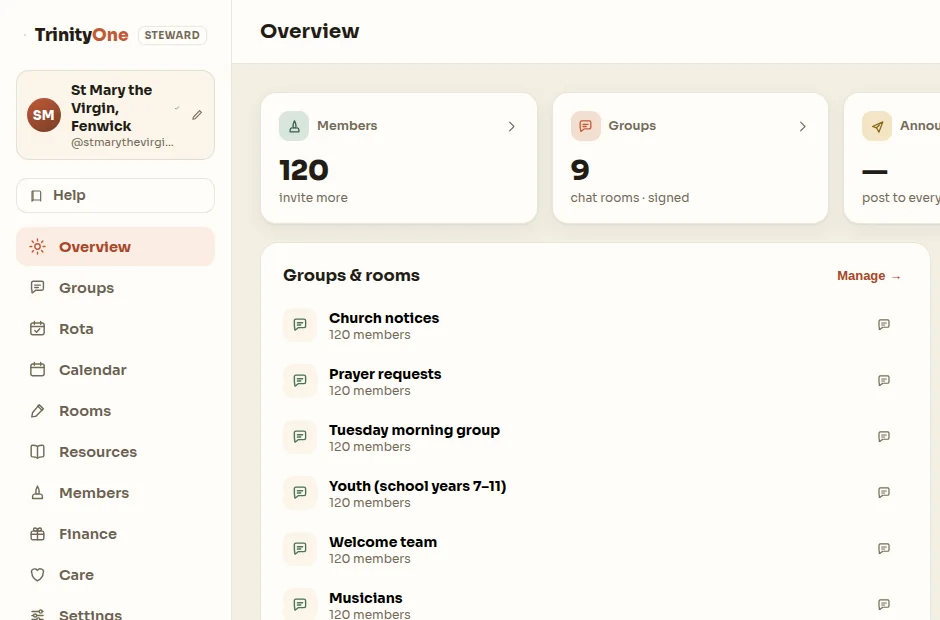
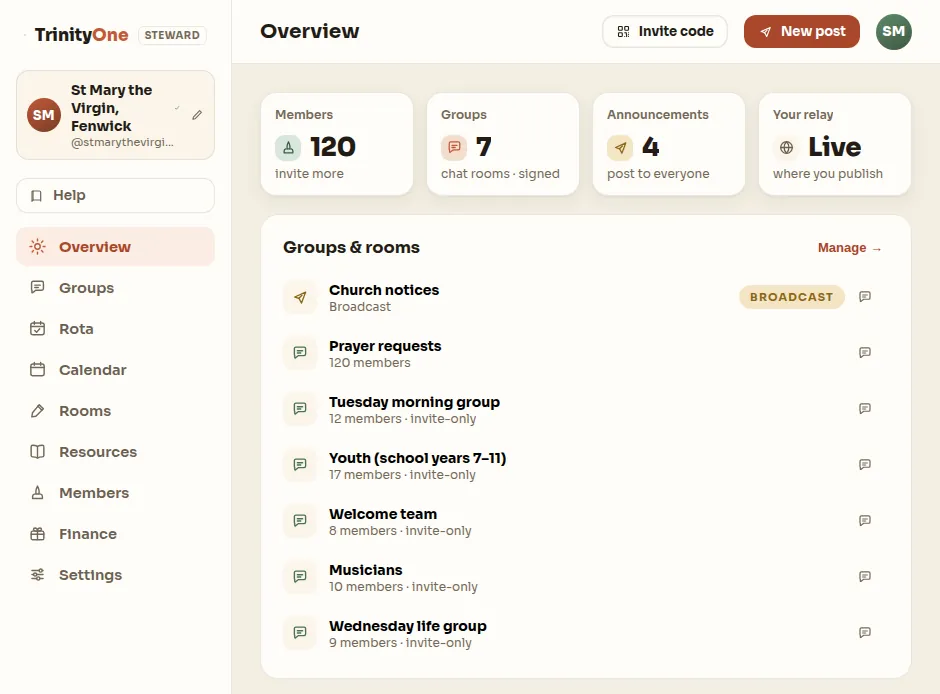
site: the console shot shows a real church's rooms, small groups with their own people, and the whole window
Owner, 2026-10-01: "the image on the website showing the stewards console has every group with 120
members, we might want to fix that to look more organic. And possibly extend the crop, as a bit is
cropped off."

WHY EVERY ROOM SAID 120. scripts/seed-church.mjs published every room open, and the console's Overview
shows an open room as the size of the whole church (groupLiveSub in app/stew-dashboard.jsx: every member
may join it). Notices was kind:'channel', a kind nothing in the product reads, so it was an open chat too
and the Announcements card read "—".

WHAT THE CONSOLE NOW SHOWS, read off its own Overview in this capture:
  Church notices          Broadcast           (kind:'broadcast', the kind the console writes)
  Prayer requests         120 members         (open: everyone may join, which is true)
  Tuesday morning group   12 members · invite-only
  Youth (school years 7–11)  17 members · invite-only
  Welcome team            8 members · invite-only
  Musicians               10 members · invite-only
  Wednesday life group    9 members · invite-only   (new room; the diary already had this group meeting)
  Cards: Members 120 · Groups 7 · Announcements 4 (was "—") · Your relay Live.
The console's own Groups page shows the same rooms as "Invite · 12", "Invite · 17", "Invite · 8",
"Invite · 10", "Invite · 9", and notices as Broadcast.

EVERY NUMBER IS ONE THE PRODUCT PRODUCED. Nothing was edited in an image editor; the image is a crop of a
[…]

diff --git a/welcome.html b/welcome.html
@@ -453,16 +453,26 @@
       </li>
     </ol>
     <!-- ⚠ WHAT A LEADER ACTUALLY SEES, under the two steps that describe getting there. Captured from the
-         REAL console (the web app at desktop width, not the phone APK) against a seeded church of 120 people
-         and nine rooms, so every number on it is a number the product produced. Owner asked for it on
+         REAL console (the web app on a computer, not the phone APK) against a seeded church of 120 people
+         and seven rooms, so every number on it is a number the product produced. Owner asked for it on
          2026-09-15: "a screenshot of the dashboard of the steward console under the 1 and 2 cards".
-         The joining-code column is CROPPED OUT, and that is a deliberate choice worth recording: it carried
-         two warnings ("this link only works on this computer", "not public yet") which are artefacts of a
-         demo relay that was never made reachable — a state a configured church does not sit in. Cropping is
-         honest; editing them away would not have been. -->
+         RE-CAPTURED 2026-10-01 (owner: "every group with 120 members, we might want to fix that to look more
+         organic. And possibly extend the crop, as a bit is cropped off"). Every room had been seeded OPEN, and
+         an open room counts the whole church. Now the small groups carry their own member lists, written by
+         scripts/seed-small-groups.mjs in the shape the console's own member picker writes; notices is a real
+         broadcast room; the 4 announcements are church-signed posts in it. Checked on the console's own Groups
+         page, which reads "Invite · 12" and so on for the same rooms.
+         The window is 940x900, which the console lays out as it does the desktop Suite's own window: four
+         cards across, the rooms full width, the joining code BELOW them. That is the whole window's width and
+         its top 694px, so nothing is cut at the side; the old 1440px shot put the joining code beside the
+         rooms and the crop had to slice through the third card.
+         The joining code is still OUT of the picture, and that is a deliberate choice worth recording: on a
+         demo relay nobody made reachable it carries "Make your church reachable" / "this link only works on
+         this computer" / "not public yet" — artefacts of the demo box, not a state a configured church sits
+         in. Leaving it out is honest; editing them away would not have been. -->
     <figure class="console-shot">
-      <img src="console-dashboard.webp" alt="The steward console: a church of 120 members with nine rooms, seen on a computer"
-           width="940" height="620" loading="lazy" decoding="async" />
+      <img src="console-dashboard.webp" alt="The steward console on a computer: a church of 120 members and seven rooms — notices and prayer for everyone, and five small groups of 8 to 17 people"
+           width="940" height="694" loading="lazy" decoding="async" />
       <figcaption>The leader's view. Members, rooms, rotas and the church's own relay.</figcaption>
     </figure>
   </div>
